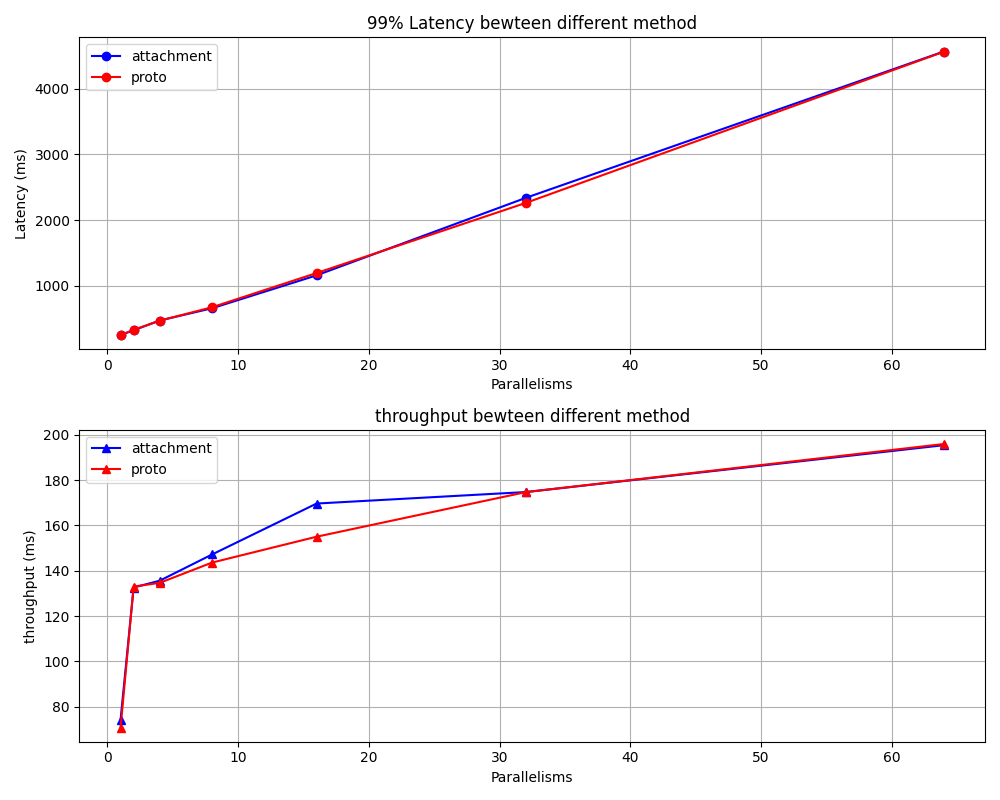
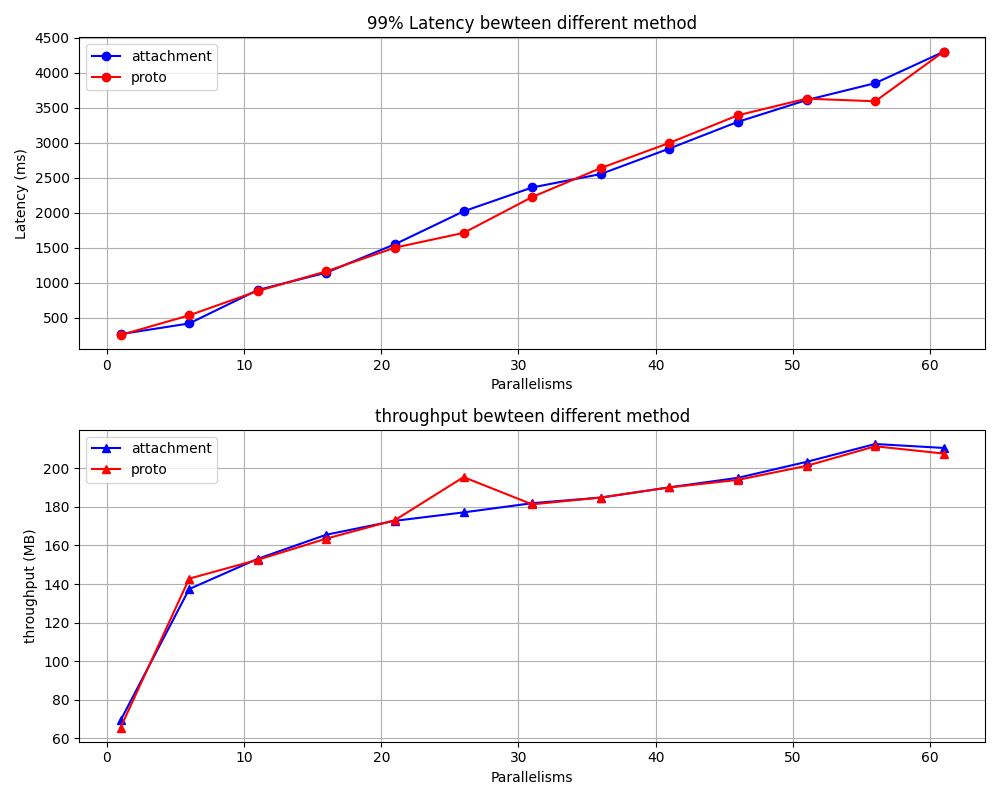
add more result

diff --git a/drawer.py b/drawer.py
@@ -1,6 +1,6 @@
 import matplotlib.pyplot as plt
 
-parallelisms = [1, 2, 4, 8, 16, 32, 64, ]
+parallelisms = [1, 6, 11, 16, 21, 26, 31, 36, 41, 46, 51, 56, 61, ]
 attachment_lantencys = dict()
 attachment_speed = dict()
 proto_lantencys = dict()
@@ -11,37 +11,48 @@ streaming_speed = dict()
 # ================ paste data here begin ================
 
 # attachment  payload size 10240
-attachment_lantencys["10k"] = [43.023, 40.858, 40.705, 41.552, 59.921, 73.168, 67.206, ]
-attachment_speed["10k"] = [0.441557, 0.885717, 1.75337, 3.50728, 6.99694, 13.9411, 28.0845, ]
+attachment_lantencys["10k"] = [43.152, 41.017, 59.854, 79.557, 97.192, 97.258, 97.925, 95.552, 91.675, 73.619, 82.495, 98.319, 79.943, ]
+attachment_speed["10k"] = [0.440399, 2.64264, 4.79431, 6.89358, 9.03093, 11.2264, 13.3624, 15.5207, 17.6066, 19.8223, 22.0345, 24.0496, 26.4739, ]
 
 # proto  payload size 10240
-proto_lantencys["10k"] = [41.037, 41.179, 40.421, 41.116, 59.658, 59.86, 80.192, ]
-proto_speed["10k"] = [0.441539, 0.882758, 1.76217, 3.51301, 6.96505, 13.9703, 27.8181, ]
+proto_lantencys["10k"] = [40.87, 41.011, 80.221, 61.232, 78.308, 95.771, 96.334, 98.528, 85.549, 108.916, 85.979, 101.065, 78.787, ]
+proto_speed["10k"] = [0.441728, 2.64387, 4.75739, 6.93121, 9.02083, 11.1938, 13.329, 15.4026, 17.7981, 19.7989, 22.0481, 24.0227, 26.3927, ]
 
 # streaming  payload size 10240
-streaming_lantencys["10k"] = [43.322, 40.793, 39.991, 40.256, 58.403, 60.33, 60.154, ]
-streaming_speed["10k"] = [0.441235, 0.887115, 1.77665, 3.50698, 6.98453, 13.6999, 26.5151, ]
+streaming_lantencys["10k"] = [41.892, 40.817, 40.78, 60.537, 60.436, 60.658, 60.473, 80.285, 80.275, 60.854, 81.04, 80.985, 81.135, ]
+streaming_speed["10k"] = [0.441395, 2.62881, 4.75576, 6.97926, 8.98846, 11.0768, 13.191, 14.9187, 17.1092, 19.0531, 21.077, 23.038, 24.0637, ]
+
+# attachment  payload size 102400
+attachment_lantencys["100k"] = [63.889, 122.041, 122.349, 139.583, 141.944, 136.966, 160.191, 154.72, 150.856, 149.121, 149.305, 173.67, 150.823, ]
+attachment_speed["100k"] = [4.14602, 24.4942, 44.8018, 64.6553, 86.1716, 106.358, 126.642, 134.347, 133.707, 133.944, 133.327, 132.839, 134.794, ]
+
+# proto  payload size 102400
+proto_lantencys["100k"] = [61.751, 121.693, 122.304, 121.659, 138.995, 160.091, 178.309, 155.768, 177.362, 153.362, 122.581, 152.204, 151.189, ]
+proto_speed["100k"] = [4.21182, 24.8131, 44.5693, 65.5769, 85.6541, 104.633, 124.5, 134.157, 131.758, 133.961, 132.42, 134.154, 134.57, ]
+
+# streaming  payload size 102400
+streaming_lantencys["100k"] = [41.919, 100.711, 120.692, 121.408, 121.377, 122.115, 122.545, 123.877, 125.183, 125.008, 141.491, 120.564, 122.441, ]
+streaming_speed["100k"] = [4.27014, 24.5001, 43.887, 60.026, 83.5556, 100.987, 108.145, 116.108, 121.466, 126.477, 128.388, 133.932, 132.301, ]
 
 # attachment  payload size 1048576
-attachment_lantencys["1m"] = [127.05, 165.487, 165.902, 208.381, 234.04, 328.486, 526.953, ]
-attachment_speed["1m"] = [32.9202, 68.3548, 121.386, 134.739, 137.406, 139.702, 144.64, ]
+attachment_lantencys["1m"] = [127.418, 205.054, 208.705, 270.861, 258.684, 306.017, 360.192, 386.288, 423.239, 452.352, 466.968, 500.751, 488.036, ]
+attachment_speed["1m"] = [31.7604, 131.431, 133.32, 132.758, 135.149, 138.165, 137.741, 139.485, 139.641, 141.347, 143.98, 145.674, 146.82, ]
 
 # proto  payload size 1048576
-proto_lantencys["1m"] = [126.594, 146.754, 166.754, 206.182, 231.162, 329.894, 505.382, ]
-proto_speed["1m"] = [32.2823, 64.804, 113.329, 134.263, 137.27, 139.794, 145.728, ]
+proto_lantencys["1m"] = [147.084, 186.619, 194.036, 252.017, 305.936, 304.702, 341.761, 403.618, 419.582, 434.477, 470.934, 523.808, 520.367, ]
+proto_speed["1m"] = [31.1416, 131.684, 134.521, 133.986, 134.575, 137.307, 140.013, 138.583, 140.312, 142.602, 144.199, 143.563, 145.24, ]
 
 # streaming  payload size 1048576
-streaming_lantencys["1m"] = [100.514, 121.164, 142.992, 182.147, 209.539, 301.443, 455.309, ]
-streaming_speed["1m"] = [41.0702, 76.2038, 89.2708, 136.982, 142.319, 151.017, 167.638, ]
+streaming_lantencys["1m"] = [100.466, 160.319, 186.435, 202.712, 250.374, 284.834, 310.036, 359.321, 350.722, 380.61, 412.096, 460.567, 520.133, ]
+streaming_speed["1m"] = [40.394, 131.271, 138.997, 142.976, 145.045, 144.972, 151.962, 153.005, 159.805, 162.681, 167.449, 171.57, 172.325, ]
 
 # attachment  payload size 10485760
-attachment_lantencys["10m"] = [249.016, 321.608, 470.501, 656.834, 1158.34, 2338.07, 4568.32, ]
-attachment_speed["10m"] = [74.2385, 132.58, 135.604, 147.156, 169.631, 174.698, 195.375, ]
+attachment_lantencys["10m"] = [266.809, 419.287, 897.103, 1145.62, 1551.46, 2021.15, 2361.64, 2553.97, 2918.37, 3300.43, 3610.51, 3851.93, 4301.82, ]
+attachment_speed["10m"] = [69.3105, 137.404, 153.108, 165.601, 172.804, 177.168, 181.937, 184.846, 190.161, 195.092, 203.38, 212.625, 210.575, ]
 
 # proto  payload size 10485760
-proto_lantencys["10m"] = [248.922, 327.932, 468.177, 672.302, 1193.54, 2261.11, 4564.71, ]
-proto_speed["10m"] = [70.8065, 132.988, 134.654, 143.588, 154.995, 174.66, 195.897, ]
-
+proto_lantencys["10m"] = [253.768, 535.384, 882.742, 1164.05, 1502.58, 1713.06, 2225.2, 2639.3, 2999.16, 3393.63, 3630.58, 3593.15, 4304.18, ]
+proto_speed["10m"] = [65.5999, 142.813, 152.59, 163.577, 173.174, 195.456, 181.325, 184.876, 190.115, 194.038, 201.31, 211.449, 207.661, ]
 
 
 # ================ paste data here end ================
@@ -68,7 +79,7 @@ def draw(payload_size):
     if(payload_size in streaming_speed):
         ax2.plot(parallelisms, streaming_speed[payload_size], marker='^', label='streaming', color='r')
     ax2.set_xlabel('Parallelisms')
-    ax2.set_ylabel('throughput (ms)')
+    ax2.set_ylabel('throughput (MB)')
     ax2.set_title('throughput bewteen different method')
     ax2.grid(True)
     ax2.legend()
@@ -80,5 +91,6 @@ def draw(payload_size):
     plt.savefig(f'array_latency_vs_parallelism_{payload_size}.png')
 
 draw("10k")
+draw("100k")
 draw("1m")
 draw("10m")

diff --git a/src/benchmark_client.cc b/src/benchmark_client.cc
@@ -181,7 +181,7 @@ void BenchmarkThisConfigForParallel(const std::string &target_text, BenchmarkCon
   std::vector<double> speeds;
 
   LOG(INFO) << fmt::format("{}  payload size {}", target_text, config.req_size);
-  for (auto parallel = 1; parallel <= max_parallel && !brpc::IsAskedToQuit(); parallel <<= 1) {
+  for (auto parallel = 1; parallel <= max_parallel && !brpc::IsAskedToQuit(); parallel += 5) {
     config.parallelism = parallel;
 
     ClientBenchmarker tester(config);
